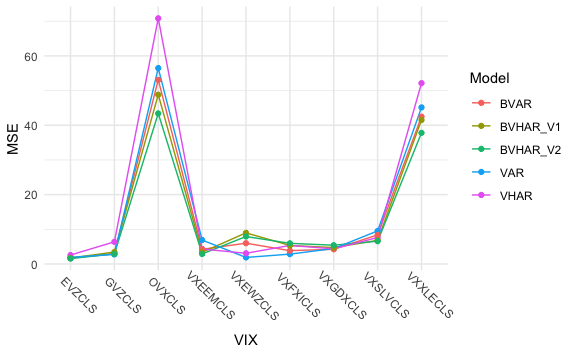
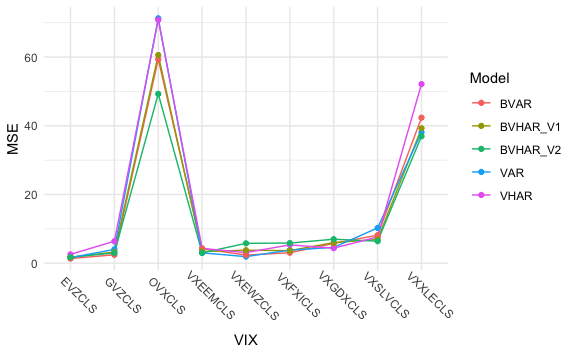
add summary of fitting functions in readme

Changed region(s): [[0.0938, 0.031, 0.75, 0.7437], [0.0312, 0.1239, 0.0625, 0.1859]]

diff --git a/README.md b/README.md
@@ -7,7 +7,7 @@
 
 [![Lifecycle:
 experimental](https://img.shields.io/badge/lifecycle-experimental-orange.svg)](https://lifecycle.r-lib.org/articles/stages.html#experimental)
-[![R-CMD-check](https://github.com/ygeunkim/bvhar/workflows/R-CMD-check/badge.svg)](https://github.com/ygeunkim/bvhar/actions)
+[![R-CMD-check](https://github.com/ygeunkim/bvhar/workflows/R-CMD-check/badge.svg)](https://github.com/ygeunkim/bvhar/actions?workflow=R-CMD-check)
 [![Codecov test
 coverage](https://codecov.io/gh/ygeunkim/bvhar/branch/master/graph/badge.svg)](https://codecov.io/gh/ygeunkim/bvhar?branch=master)
 <!-- badges: end -->
@@ -36,12 +36,26 @@ remotes::install_github("ygeunkim/bvhar")
 ## Usage
 
 ``` r
-library(bvhar)
+library(bvhar) # this package
 library(dplyr)
 library(ggplot2)
 ```
 
-### VAR
+Repeatedly, `bvhar` is a research tool to analyze multivariate time
+series model above
+
+| Model |     function      |     S3      |
+|:-----:|:-----------------:|:-----------:|
+|  VAR  |     `var_lm`      |  `varlse`   |
+| VHAR  |     `vhar_lm`     |  `vharlse`  |
+| BVAR  | `bvar_minnesota`  |  `bvarmn`   |
+| BVAR  |    `bvar_flat`    | `bvarghosh` |
+| BVHAR | `bvhar_minnesota` |  `bvharmn`  |
+
+As the other analyzing using S3 such as `lm`, this package use method
+`coef`, `predict`, etc. This readme document shows out-of-sample
+forecasting briefly. Details about each function are in vignettes and
+help documents.
 
 Out-of-sample forecasting:
 
@@ -54,10 +68,12 @@ etf_tr <-
 etf_te <- setdiff(etf_vix, etf_tr)
 ```
 
-VAR(1):
+### VAR
+
+VAR(5):
 
 ``` r
-mod_var <- var_lm(etf_tr, 1)
+mod_var <- var_lm(etf_tr, 5)
 ```
 
 Forecasting:
@@ -70,10 +86,10 @@ MSE:
 
 ``` r
 (msevar <- mse(forecast_var, etf_te))
-#>    EVZCLS    GVZCLS    OVXCLS  VXEEMCLS  VXEWZCLS  VXFXICLS  VXGDXCLS  VXSLVCLS 
-#>  1.920100  2.767665 56.480501  6.909928  1.884014  2.844713  4.448146  9.536520 
-#>  VXXLECLS 
-#> 45.142567
+#>   EVZCLS   GVZCLS   OVXCLS VXEEMCLS VXEWZCLS VXFXICLS VXGDXCLS VXSLVCLS 
+#>     1.63     4.01    71.27     3.01     1.91     3.82     4.60    10.27 
+#> VXXLECLS 
+#>    38.12
 ```
 
 ### VHAR
@@ -87,10 +103,10 @@ MSE:
 ``` r
 forecast_vhar <- predict(mod_vhar, h)
 (msevhar <- mse(forecast_vhar, etf_te))
-#>    EVZCLS    GVZCLS    OVXCLS  VXEEMCLS  VXEWZCLS  VXFXICLS  VXGDXCLS  VXSLVCLS 
-#>  2.574746  6.387274 70.829157  4.321342  3.086089  5.341502  4.378567  7.636454 
-#>  VXXLECLS 
-#> 52.135727
+#>   EVZCLS   GVZCLS   OVXCLS VXEEMCLS VXEWZCLS VXFXICLS VXGDXCLS VXSLVCLS 
+#>     2.57     6.39    70.83     4.32     3.09     5.34     4.38     7.64 
+#> VXXLECLS 
+#>    52.14
 ```
 
 ### BVAR
@@ -98,8 +114,8 @@ forecast_vhar <- predict(mod_vhar, h)
 Minnesota prior:
 
 ``` r
-lam <- .2
-delta <- rep(0, ncol(etf_vix)) # litterman
+lam <- .3
+delta <- rep(1, ncol(etf_vix)) # litterman
 sig <- apply(etf_tr, 2, sd)
 eps <- 1e-04
 ```
@@ -113,10 +129,10 @@ MSE:
 ``` r
 forecast_bvar <- predict(mod_bvar, h)
 (msebvar <- mse(forecast_bvar, etf_te))
-#>    EVZCLS    GVZCLS    OVXCLS  VXEEMCLS  VXEWZCLS  VXFXICLS  VXGDXCLS  VXSLVCLS 
-#>  1.675226  3.007671 53.085572  4.233823  5.998921  3.847304  4.247299  8.387925 
-#>  VXXLECLS 
-#> 42.483580
+#>   EVZCLS   GVZCLS   OVXCLS VXEEMCLS VXEWZCLS VXFXICLS VXGDXCLS VXSLVCLS 
+#>     1.36     2.45    59.34     4.23     2.37     3.05     5.75     8.15 
+#> VXXLECLS 
+#>    42.36
 ```
 
 ### BVHAR
@@ -132,10 +148,10 @@ MSE:
 ``` r
 forecast_bvhar_v1 <- predict(mod_bvhar_v1, h)
 (msebvhar_v1 <- mse(forecast_bvhar_v1, etf_te))
-#>    EVZCLS    GVZCLS    OVXCLS  VXEEMCLS  VXEWZCLS  VXFXICLS  VXGDXCLS  VXSLVCLS 
-#>  1.707028  3.453921 48.813705  3.388200  8.974295  5.351510  4.725564  6.815297 
-#>  VXXLECLS 
-#> 41.515688
+#>   EVZCLS   GVZCLS   OVXCLS VXEEMCLS VXEWZCLS VXFXICLS VXGDXCLS VXSLVCLS 
+#>     1.73     3.24    60.58     3.40     3.78     3.66     6.01     6.89 
+#> VXXLECLS 
+#>    39.26
 ```
 
 Minnesota-v2:
@@ -160,10 +176,10 @@ mod_bvhar_v2 <- bvhar_minnesota(
 ``` r
 forecast_bvhar_v2 <- predict(mod_bvhar_v2, h)
 (msebvhar_v2 <- mse(forecast_bvhar_v2, etf_te))
-#>    EVZCLS    GVZCLS    OVXCLS  VXEEMCLS  VXEWZCLS  VXFXICLS  VXGDXCLS  VXSLVCLS 
-#>  1.568791  2.903725 43.408822  2.895090  7.916399  5.961531  5.411489  6.573031 
-#>  VXXLECLS 
-#> 37.812749
+#>   EVZCLS   GVZCLS   OVXCLS VXEEMCLS VXEWZCLS VXFXICLS VXGDXCLS VXSLVCLS 
+#>     1.74     2.97    49.28     3.00     5.78     5.86     6.98     6.41 
+#> VXXLECLS 
+#>    36.94
 ```
 
 Comparing:
@@ -173,16 +189,16 @@ Comparing:
 ``` r
 # VAR---------------
 mean(msevar)
-#> [1] 14.65935
+#> [1] 15.4
 # VHAR--------------
 mean(msevhar)
-#> [1] 17.4101
+#> [1] 17.4
 # BVAR--------------
 mean(msebvar)
-#> [1] 14.10748
+#> [1] 14.3
 # BVHAR-------------
 mean(msebvhar_v1)
-#> [1] 13.86058
+#> [1] 14.3
 mean(msebvhar_v2)
-#> [1] 12.71685
+#> [1] 13.2
 ```
